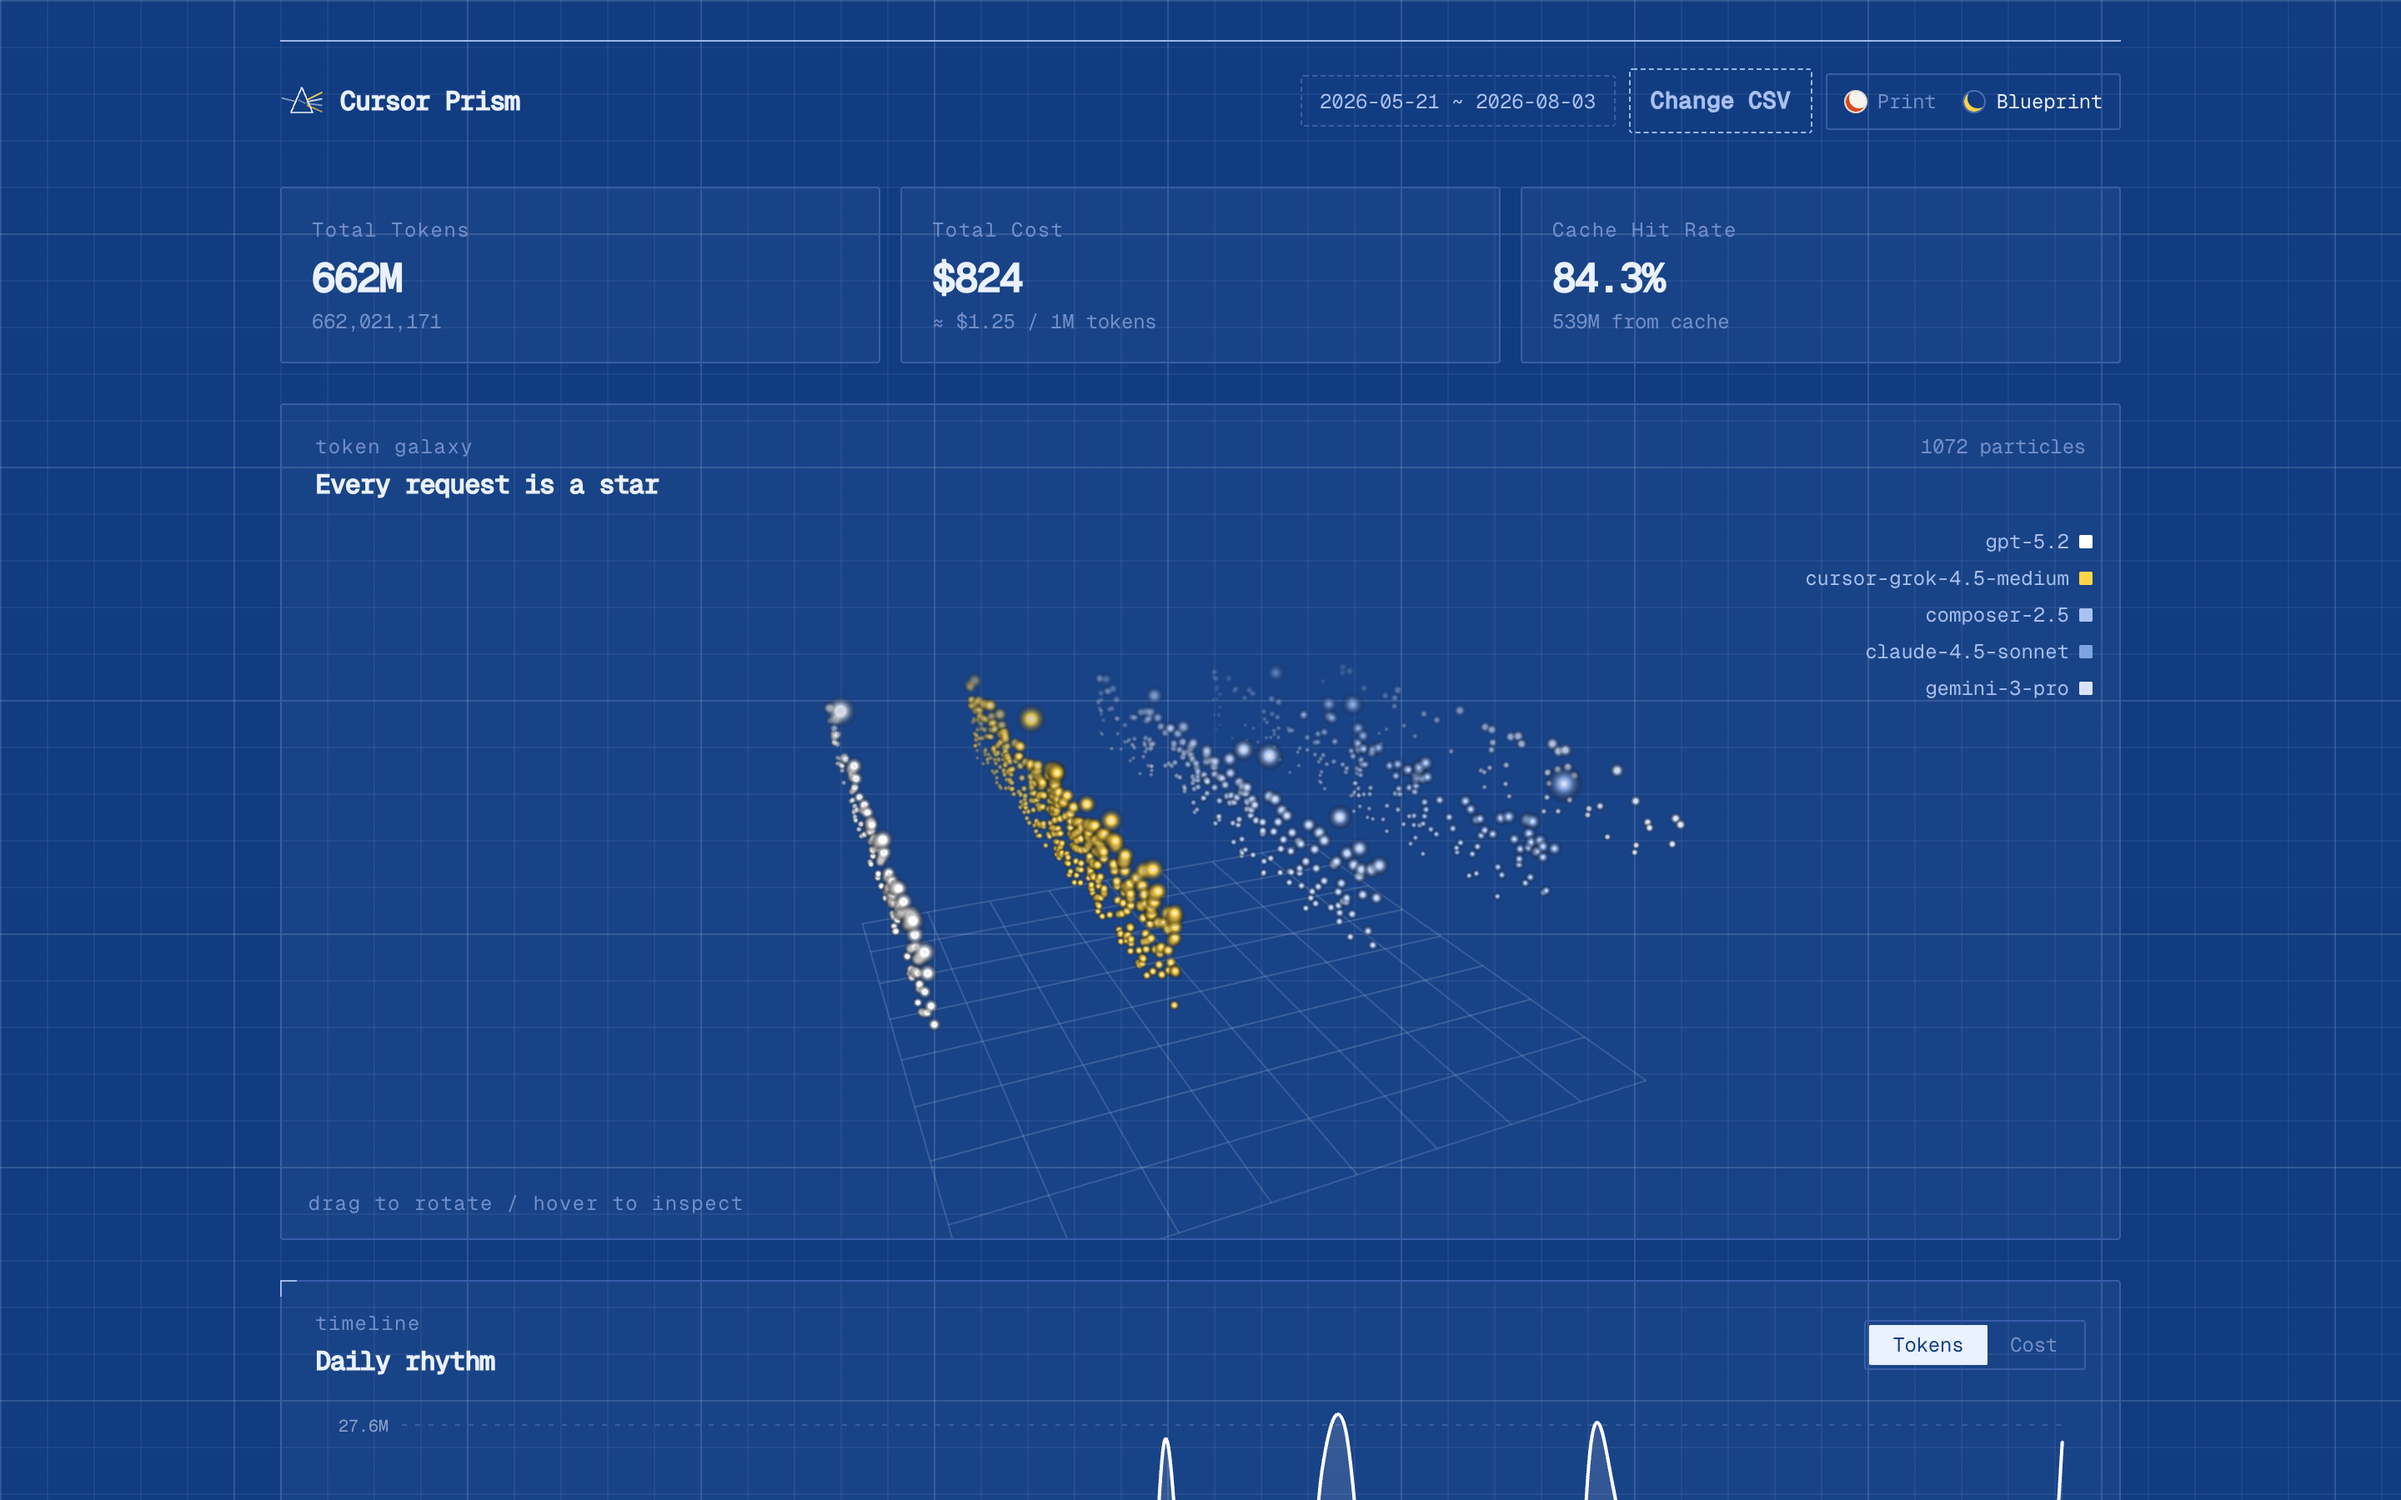
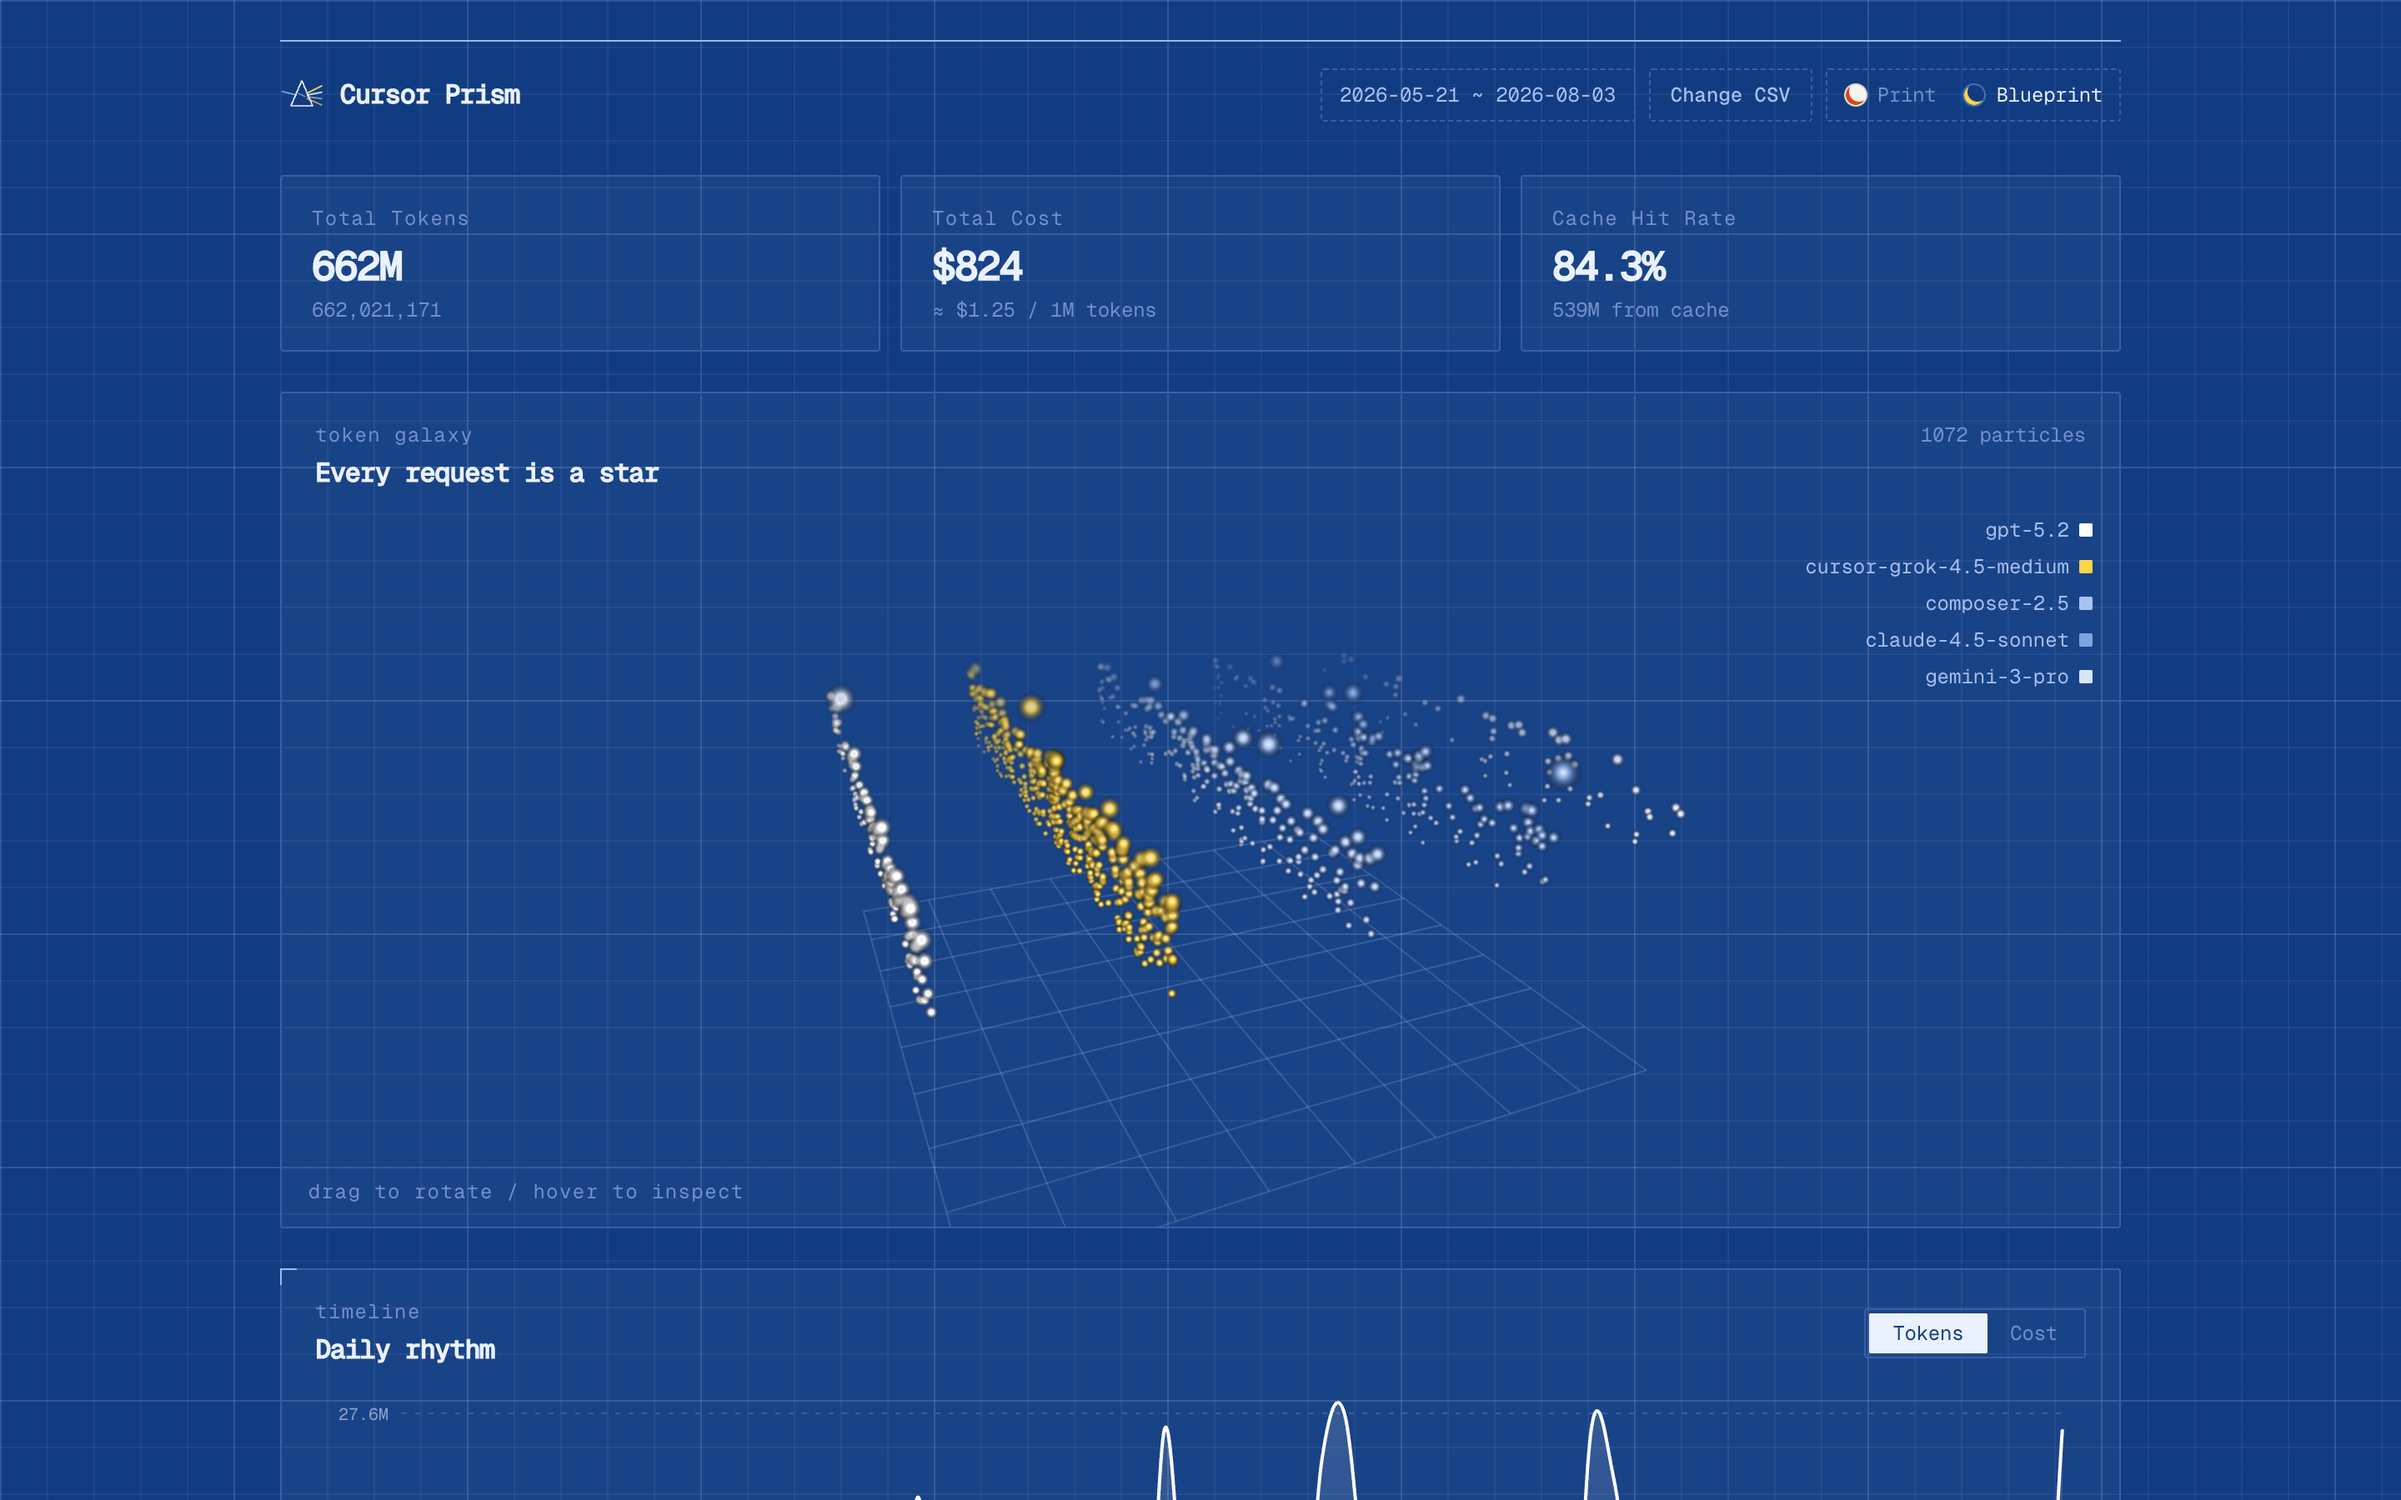
fix(header): unify the header control trio
The date chip, Change CSV button and theme switcher each had their
own height, border weight and font size, and Change CSV inherited
the landing CTA's solid ink border — far too loud for a secondary
action. All three now share one 32px rhythm: 12px text, 1px line
border (dashed on blueprint), quiet ink-2 label that darkens on
hover.

diff --git a/src/styles.css b/src/styles.css
@@ -342,12 +342,46 @@ p {
 	gap: 0.5em;
 	font-family: var(--font-mono);
 	font-size: 12px;
+	height: 32px;
 	color: var(--ink-2);
 	border: 1px solid var(--line);
 	border-radius: var(--radius);
-	padding: 0.45em 0.9em;
+	padding: 0 0.9em;
 }
 [data-theme="blueprint"] .chip {
+	border-style: dashed;
+}
+
+/* Quiet header actions: same 32px rhythm as chips and the theme switcher */
+.btn-quiet {
+	display: inline-flex;
+	align-items: center;
+	font-family: var(--font-body);
+	font-size: 12px;
+	font-weight: 500;
+	height: 32px;
+	padding: 0 12px;
+	border: 1px solid var(--line);
+	color: var(--ink-2);
+	background: transparent;
+	border-radius: var(--radius);
+	cursor: pointer;
+	transition:
+		border-color 0.25s var(--ease),
+		color 0.25s var(--ease),
+		transform 0.15s var(--ease);
+}
+.btn-quiet:hover {
+	color: var(--ink);
+	border-color: var(--line-strong);
+}
+.btn-quiet:active {
+	transform: scale(0.98);
+}
+[data-theme="blueprint"] .btn-quiet {
+	border-style: dashed;
+}
+[data-theme="blueprint"] .theme-switch {
 	border-style: dashed;
 }
 

diff --git a/src/components/ThemeSwitcher.tsx b/src/components/ThemeSwitcher.tsx
@@ -16,7 +16,7 @@ export function ThemeSwitcher() {
 
 	return (
 		<div
-			className="flex items-center gap-1 border p-1"
+			className="theme-switch flex h-8 items-center gap-1 border px-1"
 			style={{
 				borderColor: "var(--line)",
 				borderRadius: "var(--radius)",

diff --git a/src/routes/dashboard.tsx b/src/routes/dashboard.tsx
@@ -95,7 +95,7 @@ function Dashboard() {
 						<button
 							type="button"
 							onClick={() => fileInput.current?.click()}
-							className="btn"
+							className="btn-quiet"
 						>
 							Change CSV
 						</button>
